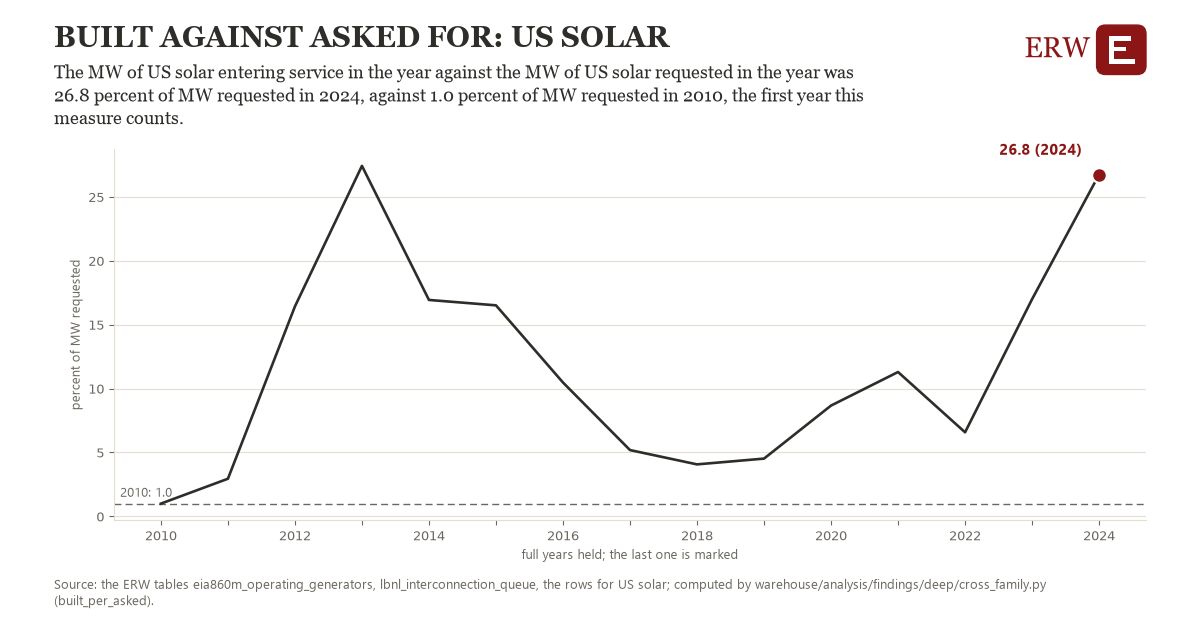
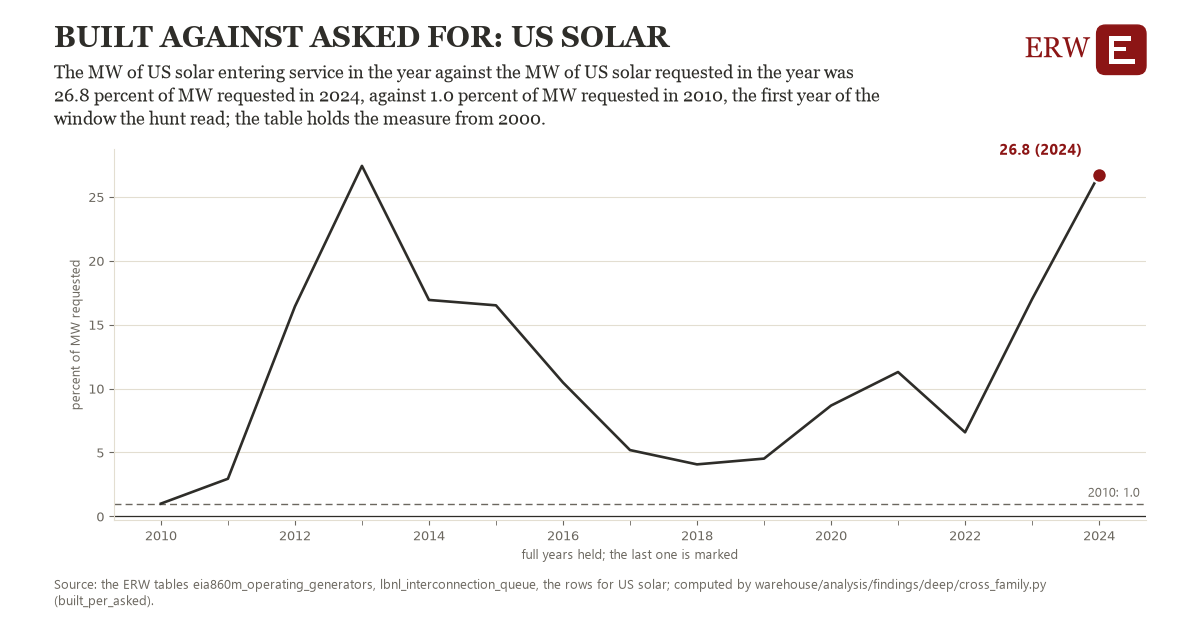
Session 9820: findings charts 1 to 10 drawn again (the mended sentence drawn in, labels clear of the line, the zero line in ink); drafts stay drafts

diff --git a/docs/reviews/findings-charts-2026-11-20.md b/docs/reviews/findings-charts-2026-11-20.md
@@ -1,0 +1,35 @@
+# The findings' charts drawn again (session 9820, 20 November 2026)
+
+Energy Research Warehouse (ERW). Written by the desktop's fourth window, sessions 9820 to 9839, unattended, model spend USD 0. Every draft stays a draft: nothing approved, sent or posted; no caption written; chart titles left as they are (Samuel's ruling). Read with the audit, https://github.com/SamuelEnrique/erw/blob/main/docs/reviews/findings-audit-2026-11-19.md, and the sheet of forty, https://github.com/SamuelEnrique/erw/blob/main/docs/reviews/findings-shortlist-2026-11-19.md.
+
+## How
+
+- **Each chart is drawn again from its own draft:** the card the builder stored (public.scanner_drafts, read only), the line, the marked point and the first year's line read again from the draft's CSV, and the line under the title taken from the draft's `.md` as it stands. Before a picture is written, every figure it prints is set against the CSV and the sentence; a mismatch writes nothing. The tool: `warehouse/analysis/findings/deep/redraw.py` (code on `wip/9820-findings-charts`, for the landing desk).
+- **What was wrong is measured on the picture as it was drawn:** the old drawing code (main's `card_image.py`) renders the card again and its labels, legend, lines and axis are read back: a label whose box crosses the line, a legend over the data, zero on the scale with no ink zero line, years missing from the table drawn one step apart, the marked year without a label, a printed figure that differs from the sentence, text past the picture's edge. The forty of the sheet were also opened and looked at, before and after.
+- **The fixes are in the chart code** (`warehouse/analysis/findings/card_image.py`), one change for all drafts:
+  1. the marked figure, the first year's label and each series' name are placed where they cross no line, point or other label (each candidate place tried in order; a render that finds no clear place says so);
+  2. a chart with two series names each on its line, in its own color, as `docs/brand.md` section 6 asks; no legend;
+  3. the zero line in ink when zero is on the scale (section 6);
+  4. years at their own places: a year the table does not hold is a gap in the line, not a step;
+  5. axis labels counted back from the last year, so the marked year is always labelled (the first too when a step divides the span); the events' days every k-th day back from the last;
+  6. titles, sentences and source lines wrapped by their measured width, and a cut said, not silent;
+  7. the figures drawn from the CSV at full precision (two pictures printed 28.43 and 404.8 where their sentences say 28.42 and 404.7).
+- **Colors:** every color drawn is one of `docs/brand.md`: page, ink, cardinal (the marked point, the highlight), captions grey, rule, the chart blue for a second series. None was outside the brand file; the missing ink zero line was the one color rule broken.
+- **Not done:** the square 1080 px pictures and the copies inside each Supabase row keep the old drawing (no write to Supabase); the covid-2020 event drafts (a low point, not a peak) are not drawn by this tool and keep their pictures.
+
+## One row a chart
+
+| # | Chart | Part | What was wrong | What was done |
+|---:|---|---|---|---|
+| 1 | [coal_uranium_metals/wc-exports-wc-aus](https://github.com/SamuelEnrique/erw/blob/main/docs/findings/coal_uranium_metals/wc-exports-wc-aus.png) | 1 (sentence mended) | the line under the title still had the sentence's old words; the first year's label (1980: 46.7) sat on the line; the marked figure (399.1 (2024)) sat on the line | drawn again: the mended sentence drawn in; label moved clear of the line; the image's figure 399.1 is the draft's |
+| 2 | [coal_uranium_metals/wc-exports-wc-idn](https://github.com/SamuelEnrique/erw/blob/main/docs/findings/coal_uranium_metals/wc-exports-wc-idn.png) | 1 (sentence mended), sheet 40 | the line under the title still had the sentence's old words; no ink zero line (docs/brand.md, section 6), though zero is on the scale | drawn again: the mended sentence drawn in; ink zero line drawn; the image's figure 614.8 is the draft's |
+| 3 | [coal_uranium_metals/wc-exports-wc-rus](https://github.com/SamuelEnrique/erw/blob/main/docs/findings/coal_uranium_metals/wc-exports-wc-rus.png) | 1 (sentence mended) | the line under the title still had the sentence's old words; the first year's label (1992: 20.4) sat on the line; the marked figure (200.6 (2024)) sat on the line; the marked year 2024 had no label on the axis | drawn again: the mended sentence drawn in; label moved clear of the line; axis labels counted back from the marked year; the image's figure 200.6 is the draft's |
+| 4 | [coal_uranium_metals/wc-exports-wc-worl](https://github.com/SamuelEnrique/erw/blob/main/docs/findings/coal_uranium_metals/wc-exports-wc-worl.png) | 1 (sentence mended) | the line under the title still had the sentence's old words; the first year's label (1980: 298.2) sat on the line | drawn again: the mended sentence drawn in; label moved clear of the line; the image's figure 1,688.1 is the draft's |
+| 5 | [cross_family/built-per-asked-us-battery-built-asked](https://github.com/SamuelEnrique/erw/blob/main/docs/findings/cross_family/built-per-asked-us-battery-built-asked.png) | 1 (sentence mended) | the line under the title still had the sentence's old words; no ink zero line (docs/brand.md, section 6), though zero is on the scale | drawn again: the mended sentence drawn in; ink zero line drawn; the image's figure 7.0 is the draft's |
+| 6 | [cross_family/built-per-asked-us-solar-built-asked](https://github.com/SamuelEnrique/erw/blob/main/docs/findings/cross_family/built-per-asked-us-solar-built-asked.png) | 1 (sentence mended) | the line under the title still had the sentence's old words; the first year's label (2010: 1.0) sat on the line; no ink zero line (docs/brand.md, section 6), though zero is on the scale | drawn again: the mended sentence drawn in; label moved clear of the line; ink zero line drawn; the image's figure 26.8 is the draft's |
+| 7 | [emissions_climate/coal-co2-share-us-coal-co2-share](https://github.com/SamuelEnrique/erw/blob/main/docs/findings/emissions_climate/coal-co2-share-us-coal-co2-share.png) | 1 (sentence mended) | the line under the title still had the sentence's old words; the marked figure (19.2 (2022)) sat on the line; the marked year 2022 had no label on the axis | drawn again: the mended sentence drawn in; label moved clear of the line; axis labels counted back from the marked year; the image's figure 19.2 is the draft's |
+| 8 | [emissions_climate/power-co2-share-us-power-co2-share](https://github.com/SamuelEnrique/erw/blob/main/docs/findings/emissions_climate/power-co2-share-us-power-co2-share.png) | 1 (sentence mended) | the line under the title still had the sentence's old words; the marked figure (31.0 (2022)) sat on the line; the marked year 2022 had no label on the axis | drawn again: the mended sentence drawn in; label moved clear of the line; axis labels counted back from the marked year; the image's figure 31.0 is the draft's |
+| 9 | [emissions_climate/power-co2-us-power-co2](https://github.com/SamuelEnrique/erw/blob/main/docs/findings/emissions_climate/power-co2-us-power-co2.png) | 1 (sentence mended) | the line under the title still had the sentence's old words; the first year's label (2001: 2,258.7) sat on the line; the marked year 2022 had no label on the axis | drawn again: the mended sentence drawn in; label moved clear of the line; axis labels counted back from the marked year; the image's figure 1,532.0 is the draft's |
+| 10 | [emissions_climate/transport-co2-share-us-transport-co2-share](https://github.com/SamuelEnrique/erw/blob/main/docs/findings/emissions_climate/transport-co2-share-us-transport-co2-share.png) | 1 (sentence mended) | the line under the title still had the sentence's old words; the first year's label (2001: 32.3) sat on the line; the marked year 2022 had no label on the axis | drawn again: the mended sentence drawn in; label moved clear of the line; axis labels counted back from the marked year; the image's figure 37.3 is the draft's |
+
+10 charts so far.
